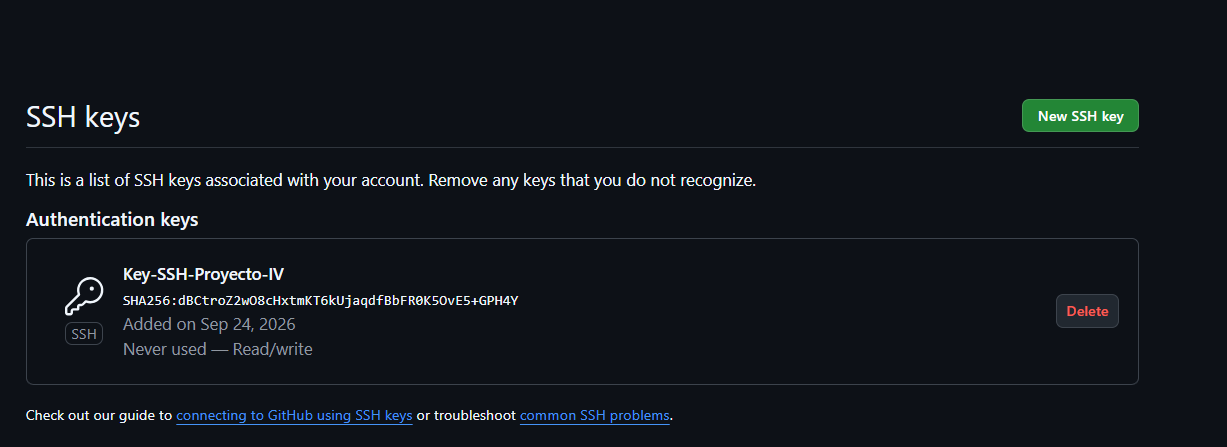
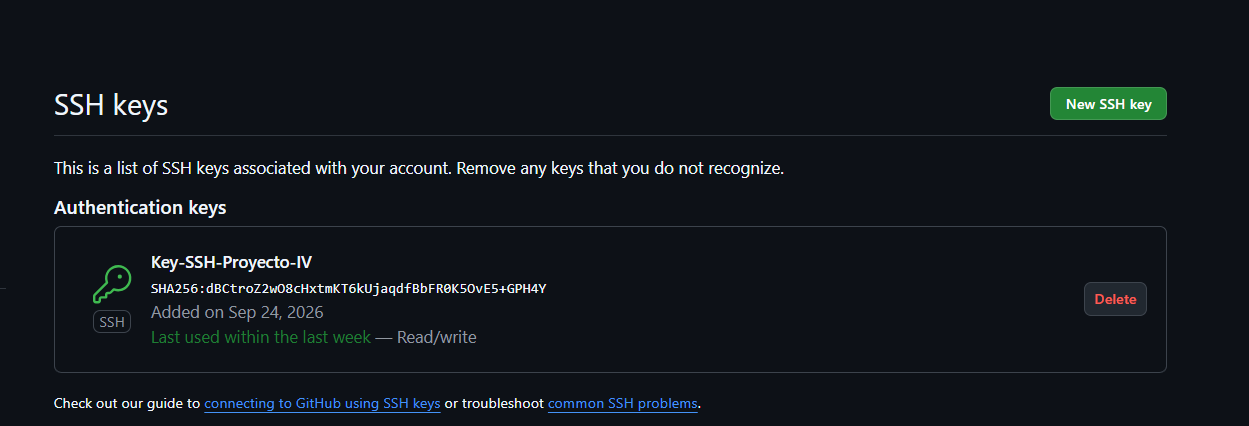
Correcion de la tarjeta

diff --git a/README.md b/README.md
@@ -7,9 +7,9 @@ Por eso, muchas veces decido según lo que siento, a veces hago demasiado y me l
 Y no soy el único: muchos corredores aficionados que conozco tienen el mismo problema.
 
 ## Tarjeta del problemo : 
-No tenia el papel del cliente durant las classes. 
+No tuve el papel del cliente la semana pasada. 
 
-![Notas del juego de rol](docs/tarjeta.txt)
+- [Notas del juego de rol](docs/tarjeta.txt)
 
 ## Documentación adicional
 - [Conexion en el terminal](docs/ssh_test.png)
